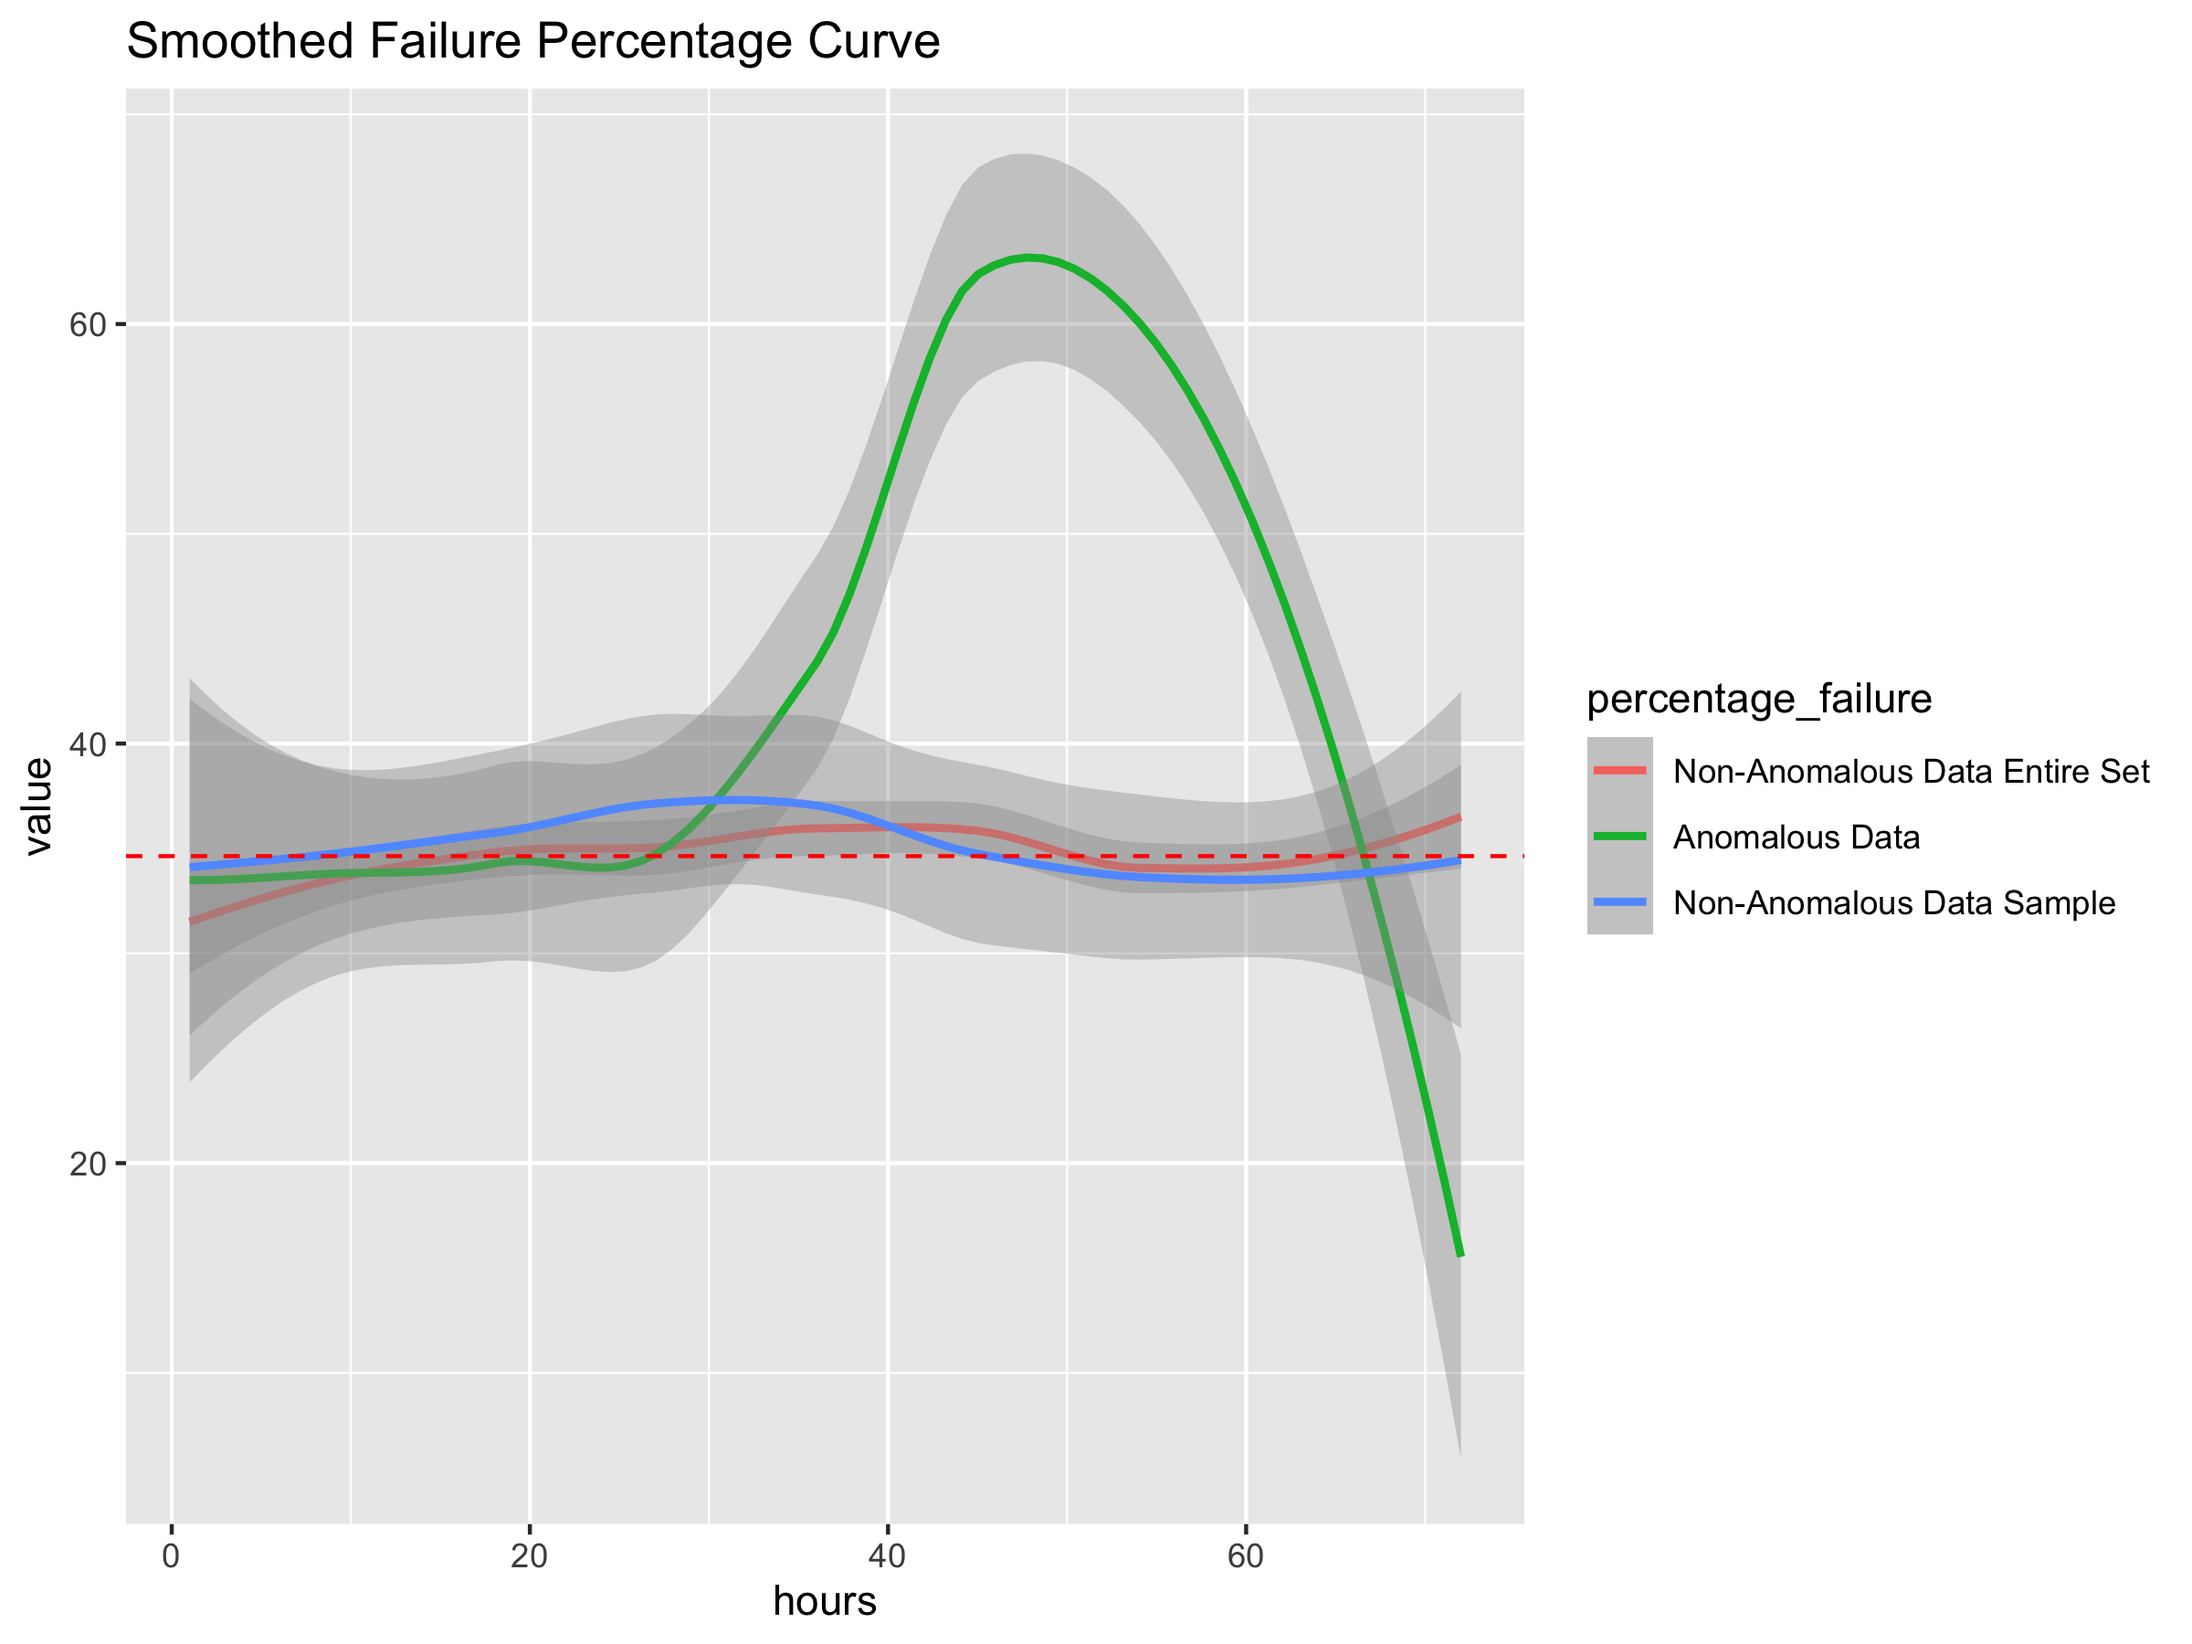
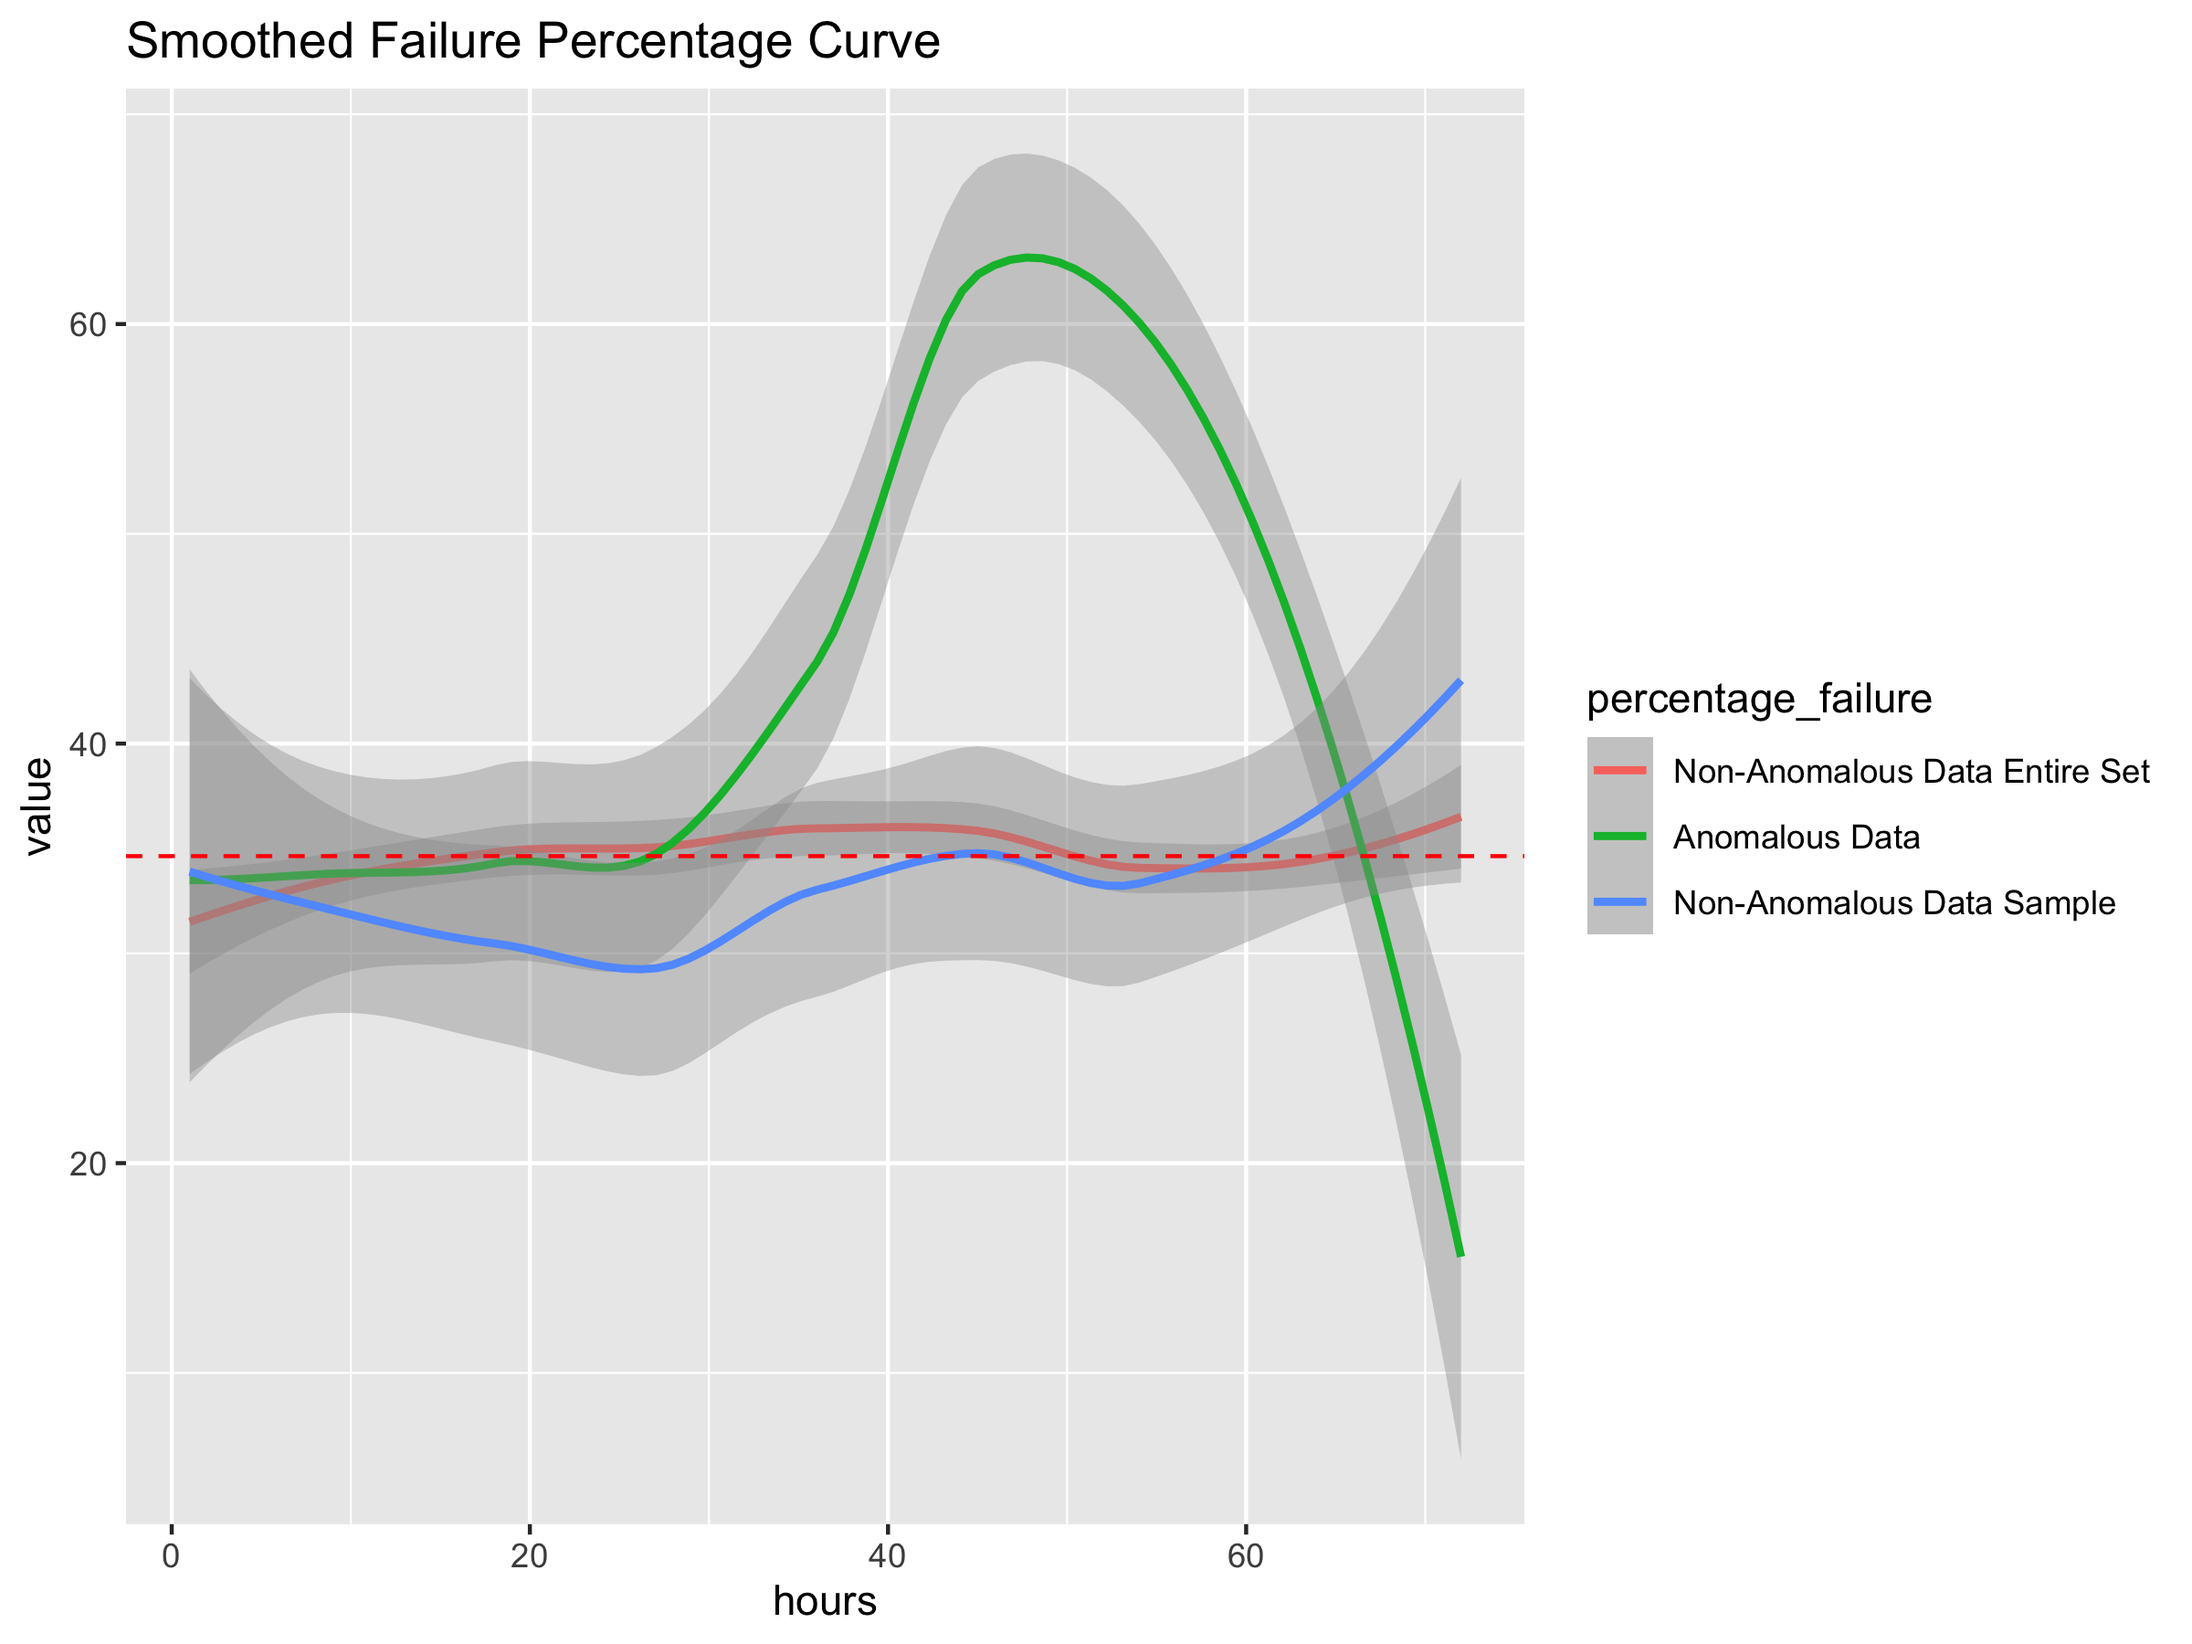
s

Changed region(s): [[0.0938, 0.3111, 0.6875, 0.6533], [0.4062, 0.4978, 0.4375, 0.5289], [0.0938, 0.6222, 0.125, 0.6533]]

diff --git a/Anamoly_Detection/ReadMe.md b/Anamoly_Detection/ReadMe.md
@@ -14,12 +14,6 @@ were successful for each combination of categorical variables (Bank,
 Payment Gateway, Merchant, Payment Method, etc..) for each hour within
 the 72 hours from February 12th to 14th.
 
-``` r
-knitr::include_graphics(
-  "~/Desktop/DS_DA_Projects/Anamoly_Detection/ReadMe_files/figure-gfm/AD_1.png"
-)
-```
-
 <div align="center">
 
 <img src="ReadMe_files/figure-gfm/AD_1.png" width="70%">
@@ -704,13 +698,13 @@ compliment_sample_sizes <- t
 (sum(compliment_sample_sizes[,2]))
 ```
 
-    ## [1] 14067
+    ## [1] 15232
 
 ``` r
 cat("totall transactions in sample of observations from normal data of equal size to number of anamoly observations.",sum(compliment_sample_sizes[,2]))
 ```
 
-    ## totall transactions in sample of observations from normal data of equal size to number of anamoly observations. 14067
+    ## totall transactions in sample of observations from normal data of equal size to number of anamoly observations. 15232
 
 ``` r
 hours <- seq(1, 72, 1)
@@ -745,7 +739,7 @@ ggplot(data = long, aes(x = hours, y = value, group = percentage_failure, color 
 cat("totall transactions in sample of observations from normal data of equal size to number of anamoly observations.",sum(compliment_sample_sizes[,2]))
 ```
 
-    ## totall transactions in sample of observations from normal data of equal size to number of anamoly observations. 14067
+    ## totall transactions in sample of observations from normal data of equal size to number of anamoly observations. 15232
 
 To make a fair comparison of the anomalous data and normal data before
 the anomaly event, the blue line is the failure rate of the normal data
